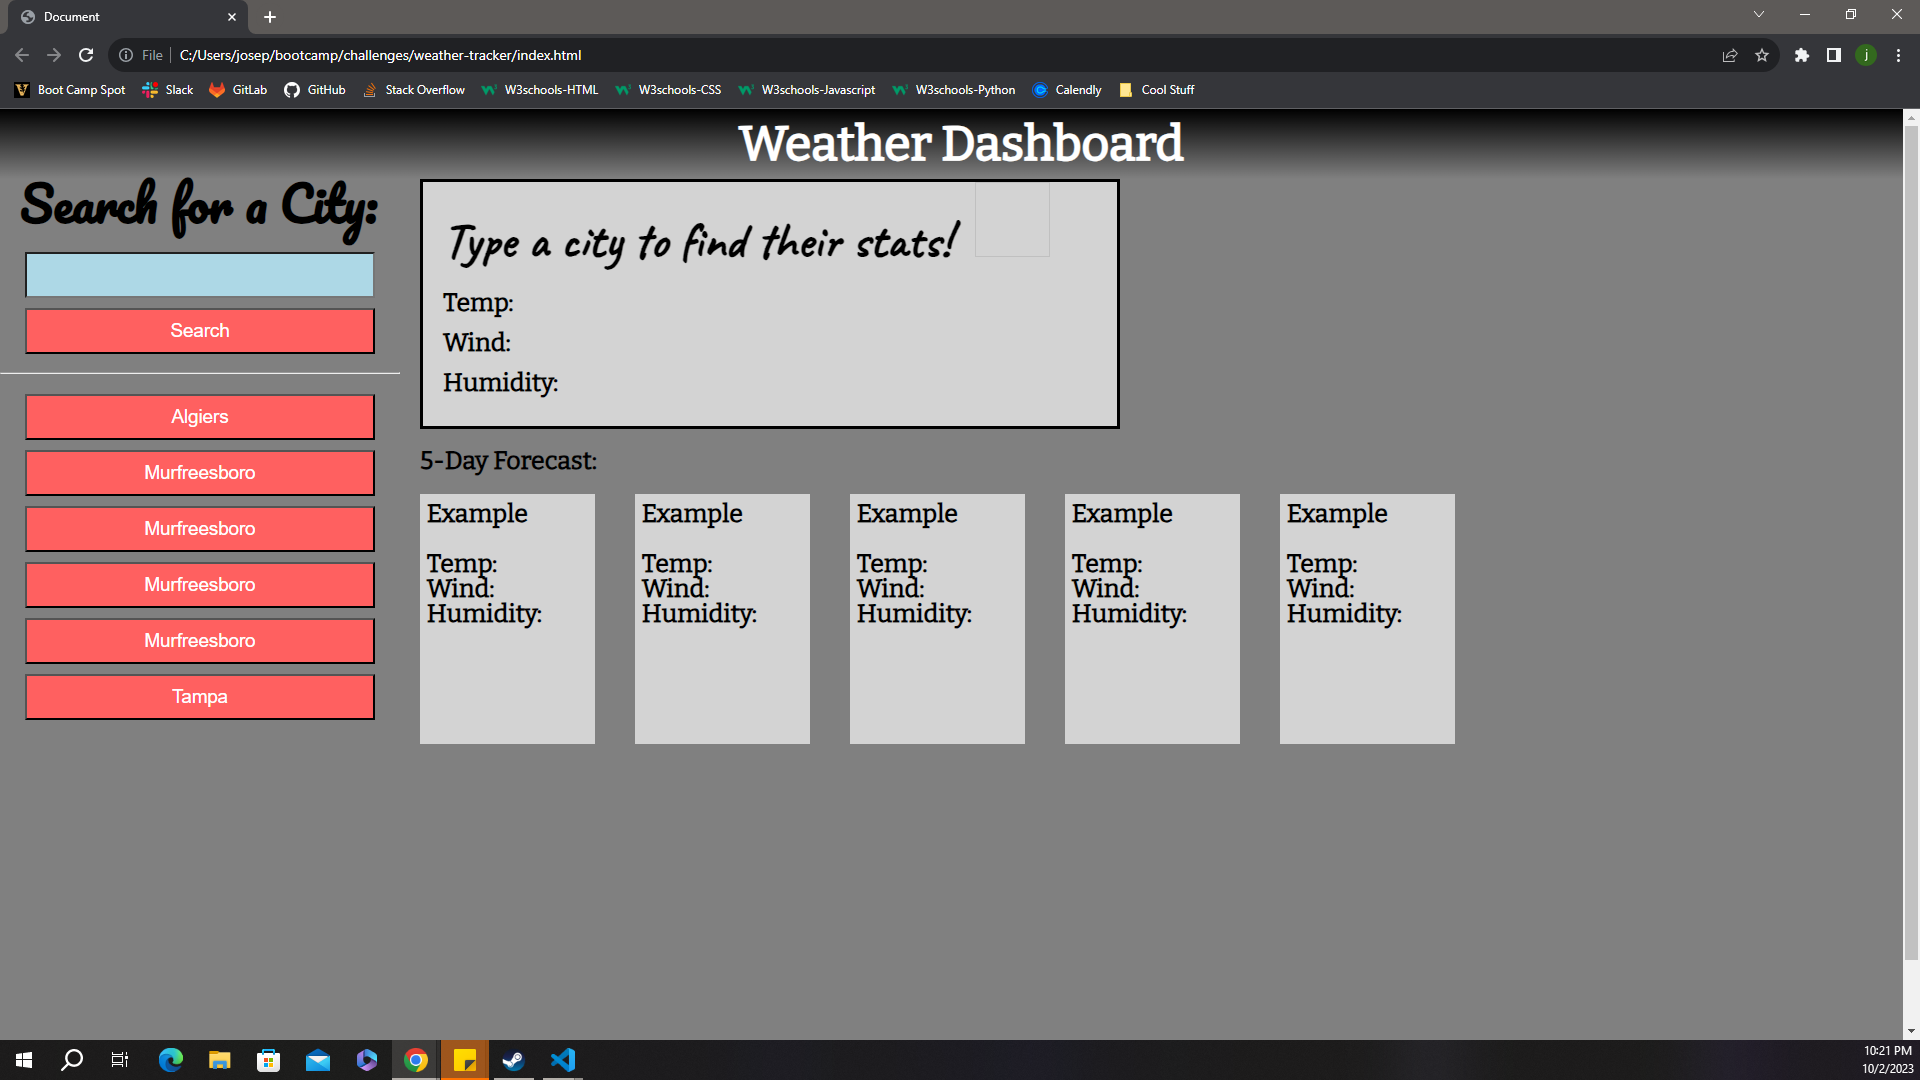
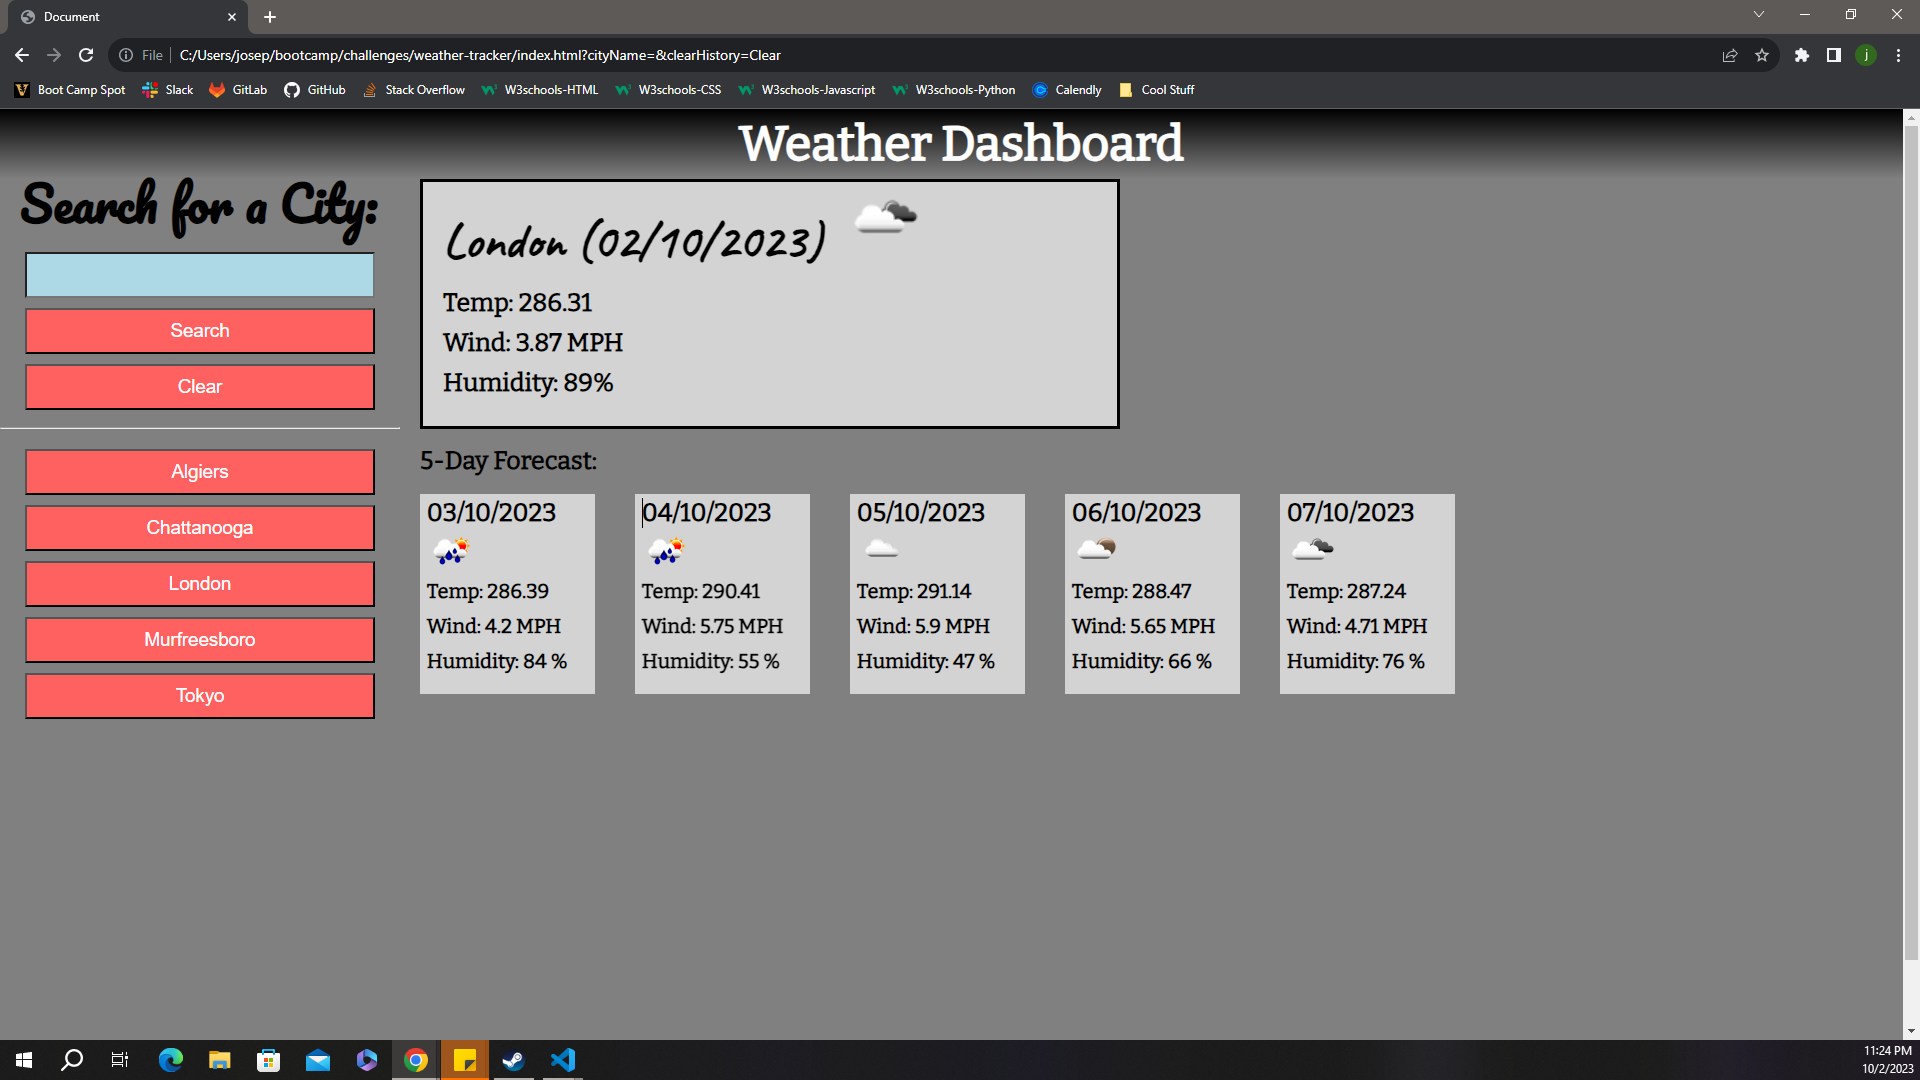
Added more to the ReadMe and Images

diff --git a/README.md b/README.md
@@ -38,6 +38,8 @@ A dashboard to display the current weather at certain locations
     can be clicked to re-display the weather again from local storage
  - If the user inputs and invalid city, they will be met with an alert that tells
     them that their answer is invalid.
+ - When the user clicks the clear button, the local storage will be cleared.
+ - There is a super hidden secret easter egg that will be hard to find.
 
 ## Questions
 
